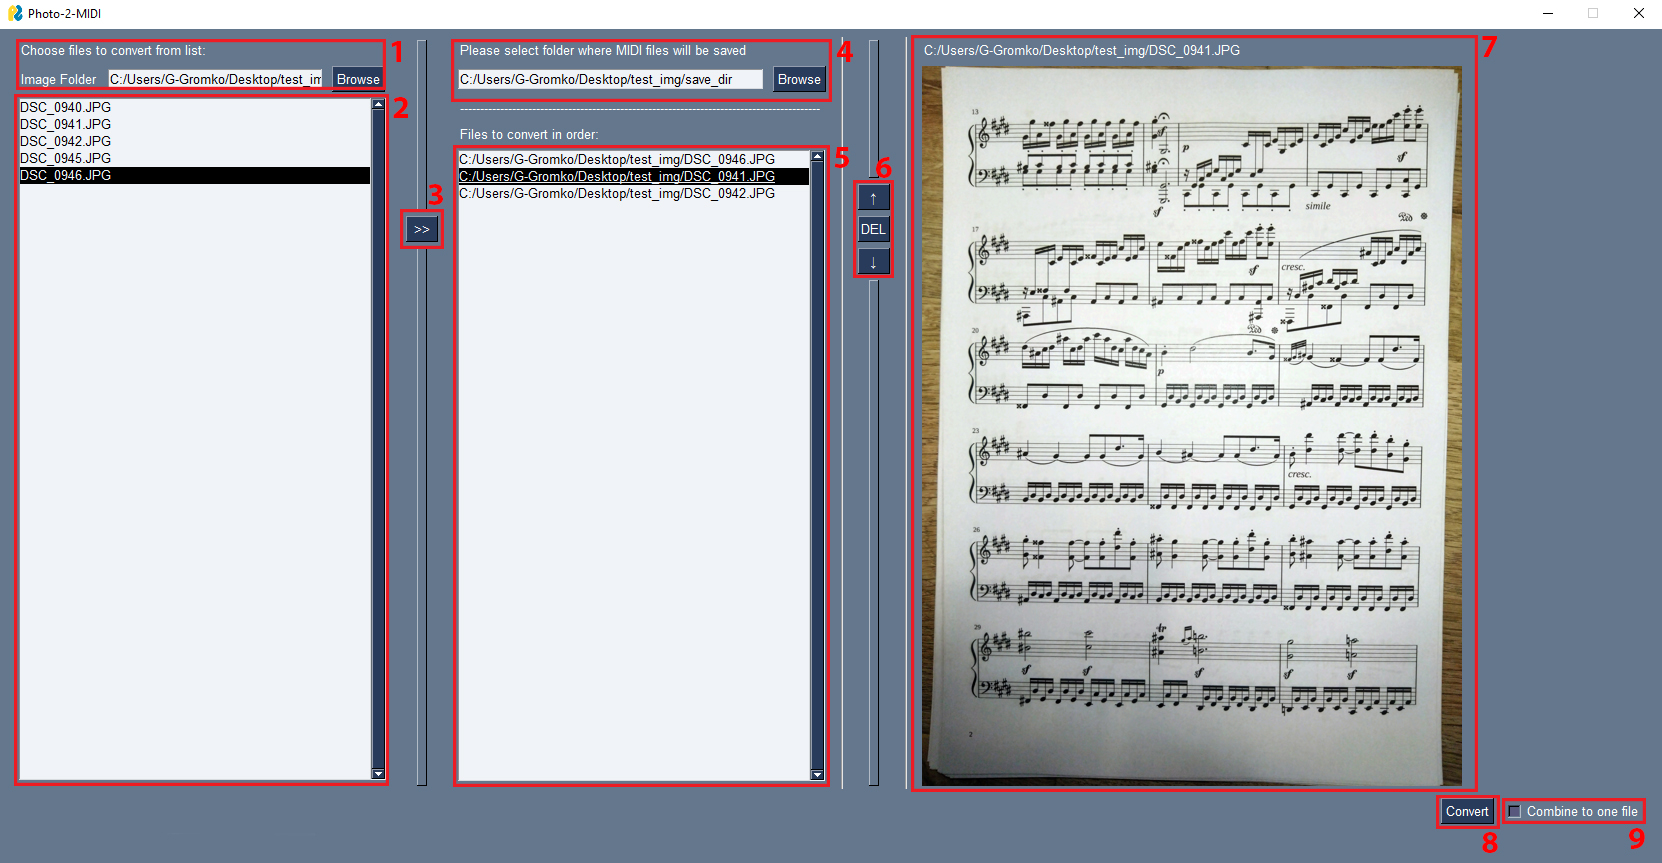
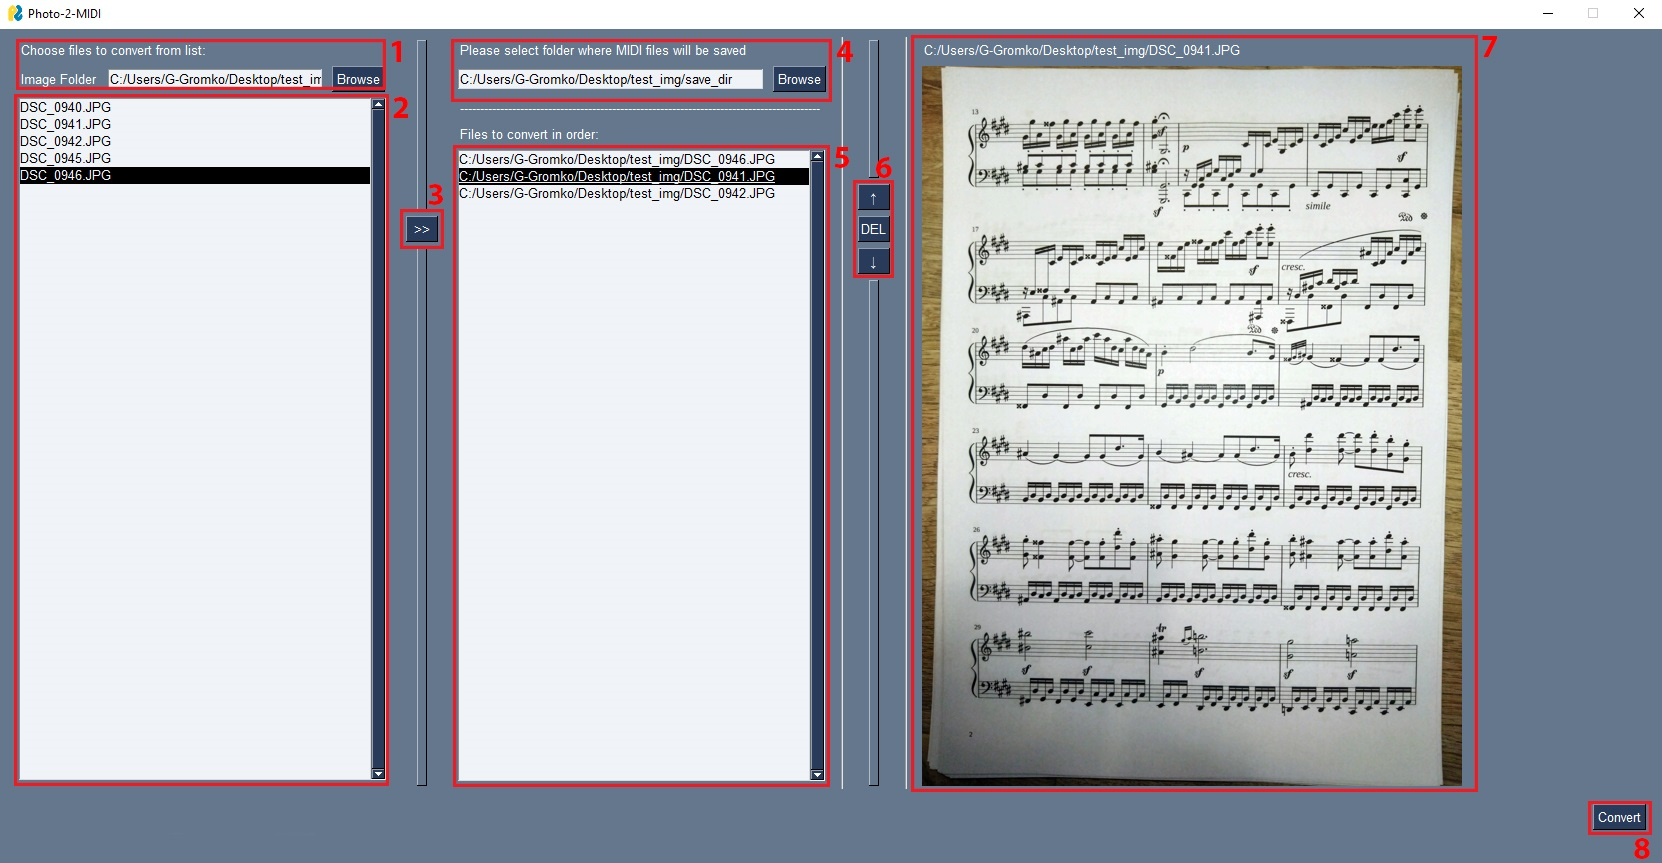
Dodano proces konwersji **kern --> MIDI, dodano zakończenie do tekstu pracy, oraz inne zmiany

diff --git a/paper/inzynierska.tex b/paper/inzynierska.tex
@@ -96,7 +96,7 @@ Jednakże pomimo tego dynamicznego rozwoju, modele te są ograniczone zazwyczaj 
 
 Większość dostępnej literatury skupia się problemie wydobywania danych już z odpowiednio przygotowanych obrazów, które mogą być w pewien sposób zniekształcone, jednak proces digitalizacji zapisów nutowych dzisiaj odbywa się zazwyczaj przy pomocy zdjęć zrobionych przy użyciu przenośnych urządzeń, takich jak telefon wyposażony w aparat, zamiast skanerów. Jak takie podejście jest wygodniejsze dla użytkownika, gdyż w dzisiejszych czasach większość osób ma już przy sobie przez prawie cały czas urządzenia wyposażone w aparat, to niestety wszystkie układy optyczne wprowadzają dystorsję do wykonywanego obrazu, beczkową dla obiektywów szerokokątnych, czy poduszkową dla teleobiektywów, co powoduje niechciane zniekształcenia w zapisywanym obrazie. Kolejną wadą fotografowania dokumentów jest to, iż w przeciwieństwie do skanów, uzyskany obraz nie jest płaski i wyrównany z ewentualnym lekkim przechyleniem, które jest proste do poprawienia, tylko często posiada zniekształcenia we wszystkich wymiarach, jak na przykład gdy fotografuje się stronę książki, co skutkuje nieliniowymi wygięciami przy krawędziach stron. Powoduje to zmniejszenie skuteczności systemów, wymagając dodatkowego stopnia wstępnego przetwarzania obrazu, polegającego na usuwaniu wypaczenia, zanim zostanie on przekazany do odzyskania informacji przez wyuczony model.
 
-Dlatego też celem niniejszej pracy jest zaprojektowanie i stworzenie programu, który pozwoli na odczytanie informacji zawartych w zapisie nutowym na fortepian ze zdjęć zrobionych przez użytkownika, by mógł je on wygodnie zdigitalizować do pliku MIDI. 
+Dlatego też celem niniejszej pracy jest zaprojektowanie i stworzenie programu, który pozwoli na odczytanie informacji zawartych w zapisie nutowym na fortepian ze zdjęć zrobionych przez użytkownika, by mógł je on wygodnie zdigitalizować do plików MIDI. 
 
 Zakres pracy obejmuje stworzenie programu w języku Python wykorzystujący model głębokiego ucznia end-to-end oparty na rekurencyjnych sieciach neuronowych opracowany przez Antonio Ríos-Vilę wytrenowany na zbiorze danych GrandStaff\cite{Rios-Vila2023}, proces usuwania wypaczenia stworzony przez Matta Zuckera, oraz algorytm odnajdywania pozycji pięciolinii opracowany przez Mariusza Szwocha \cite{Szwoch2005} oraz otwartoźródłowych bibliotek przyśpieszających tworzenie programu.
 
@@ -110,7 +110,30 @@ Praca składa się z pięciu rozdziałów. Rozdział 1 obejmuje określenie spec
 \input{chapters/chapter5}
 
 \summary
-Tu podsumowanie z realizacji założeń, możliwości dalszej pracy
+%Tu podsumowanie z realizacji założeń, możliwości dalszej pracy.
+
+Rezultatem wynikającym z prac nad omawianym projektem jest powstanie programu, wykorzystującego techniki uczenia głębokiego, do rozpoznawania zapisu nutowego na fortepian ze zdjęć zrobionych przez użytkownika oraz plików PDF zawierających zapis nutowy.
+
+Pomimo zastosowania jednego z najnowocześniejszych modeli do rozpoznawania zapisu nutowego, nie udało się uzyskać zadowalającej dokładności i jakości transkrypcji, co powoduje iż konwersja uzyskanych informacji semantycznych ze zdjęć do formatu MIDI jest często niemożliwa. Uzyskane dane w wielu przypadkach posiadają błędy wymagające ręcznych poprawek, które tylko osoby z wiedzą muzyczną oraz doświadczeniem z formatem **kern i jego narzędziami byłyby w stanie naprawić. Spowodowało to, iż niestety nie udało się zrealizować założenia wygodnego archiwizowania zapisu nutowego do formatu MIDI, jednakże opracowywanie dokładniejszych modeli głębokiego uczenia znajduje się poza zakresem tematycznym tej pracy.
+
+Podczas pracy nad projektem autor zdobył cenne doświadczenie w pracy nad programami wykorzystującymi modele uczenia głębokiego, które w ostatnich latach widziały znaczny wzrost popularności, co jest szczególnie ważne w aktualnie bardzo aktywnie zmieniającym się rynku programistycznym. Czas spędzony nad projektowaniem i implementacją programu pozwolił autorowi na praktyczne zrozumienie procesu tworzenia programów komputerowych oraz istotności fazy projektowania w opracowywaniu oprogramowania.
+
+Całość pracy prezentuje się autorowi jako wartościowe i pouczające doświadczenie.
+
+\vspace{5mm}
+
+\subsection*{Możliwe kierunki rozwoju programu}
+
+\begin{itemize}
+	\item Zastosowanie wydajniejszych algorytmów wykrywania pięciolinii.
+	\item Zaimplementowanie dokładniejszych sposobów usuwania wypaczenia stron.
+	\item Opracowanie lepszych modeli głębokiego uczenia do rozpoznawania drukowanego zapisu nutowego na fortepian.
+	\item Stworzenie prawdziwego modelu end-to-end rozpoznającego nuty z całej strony, bez wcześniejszej potrzeby segmentacji obrazu na pięciolinie.
+	\item Dodanie możliwości odczytywania nut monofonicznych i homofonicznych.
+	\item Rozbudowanie o odczytywanie ręcznego zapisu nutowego.
+\end{itemize}
+
+
 
 \bibliographystyle{plain}
 \bibliography{literatura}

diff --git a/paper/chapters/chapter5.tex b/paper/chapters/chapter5.tex
@@ -747,7 +747,7 @@ Składa się on z 53882 syntetycznie stworzonych obrazów pojedynczych linii zap
 
 Format **kern jest jednym z najczęściej wykorzystywanych formatów w komputerowej analizie muzyki. Składa się on z prostego słownika i prostej do odczytywania struktury pliku, która jest po prostu zapisem tekstowym będącym sekwencją linii, gdzie każda linia jest złożona z kolumn odseparowanych znakiem tabulacji. Każda z kolumn zawiera informacje takie jak kodowanie znaków zapisu nutowego jak klucze, nuty, pauzy etc. oraz instrukcje mówiące o rozpoczęciu czy zakończeniu pięciolinii. Jest to zasadniczo tekstowa reprezentacja zapisu nutowego, który został obrócony o 90\degree, którego podobieństwo jest pokazane na rysunku \ref{fig:kern-score}. Każda linia pliku **kern jest czytana od lewej do prawej, gdzie symbole są interpretowane w tym samym czasie, a następnie od góry do dołu.
 
-\begin{figure}
+\begin{figure}[htb]
 	\centering
 	\includegraphics[width=10cm]{images/kern-nuty.jpg}
 	\caption{Przykład fragmentu zapisu nutowego w formacie KERN (lewa) wyrównanego z wyrenderowanym zapisem nutowym (prawa) ze zbioru danych GrandStaff.}
@@ -758,7 +758,7 @@ Dzięki takiej reprezentacji możliwe jest traktowanie zapisu nutowego w sposób
 
 Dodatkowo w zbiorze GrandStaff wszystkie zapisy posiadają przetransponowane wersje, by możliwe było przygotowanie modelu do różnie wyglądających zapisów, gdyż w niektórych przypadkach transpozycje zmieniają wygląd i położenie ogonków i pałeczek nut, jak jest to widoczne na rysunku \ref{fig:score-transposition}.
 
-\begin{figure}[h]
+\begin{figure}[htb]
 	\centering
 	\includegraphics[width=14cm]{images/grandstaff-transpozycje.jpg}
 	\caption{Przykład transpozycji zapisu nutowego w zbiorze danych GrandStaff.}
@@ -767,7 +767,7 @@ Dodatkowo w zbiorze GrandStaff wszystkie zapisy posiadają przetransponowane wer
 
 Kolejną ważną cechą tego zbioru danych jest posiadanie przez niego zapisu nutowego w wersji nienaruszonej, oraz zdeformowanej, która stara się naśladować zniekształcenia mogące powstać podczas fotografowania czy skanowania, przedstawione na rysunku \ref{fig:GS-normal-distorted}. Pozwala to na przygotowanie trenowanego modelu do zadania które będzie wykonywał, pozwalając uzyskać mu większą precyzję w trakcie jego wykonywania.
 
-\begin{figure}[ht]
+\begin{figure}[htb]
 	\centering
 	\includegraphics[width=14cm]{images/normal-distorted-GS}
 	\caption{Przykład zapisu nutowego ze zbioru danych GrandStaff w wersji bez zniekształceń oraz zniekształconej wersji tego samego zapisu.}
@@ -778,11 +778,11 @@ Kolejną ważną cechą tego zbioru danych jest posiadanie przez niego zapisu nu
 
 Trenowanie odbywało się na platformie Vast.ai, na zdalnej instancji wyposażonej w układ NVidia GeForce RTX 3090 oraz 103 GB pamięci operacyjnej, przez 25 epok, z użyciem zniekształconych wersji zapisu nutowego zbioru danych GrandStaff. Łączny czas uczenia modelu wyniósł około 24 godzin.
 
-Podczas trenowania modelu wykorzystanie pamięci GPU wyniosło około 14 GB, oraz około 15 GB pamięci operacyjnej.
+Podczas trenowania modelu wykorzystanie pamięci układu GPU wyniosło około 14 GB, oraz około 15 GB pamięci operacyjnej.
 
 Otrzymany model posiada 20,8 miliona parametrów.
 
-W testach syntetycznych przeprowadzonych na podzbiorze zbioru danych GrandStaff osiągnął on wyniki:
+W testach syntetycznych przeprowadzonych na testowym podzbiorze zbioru danych GrandStaff osiągnął on wyniki:
 \begin{itemize}
 	\item SER (Sequence Error Rate) - 10,951\%
 	\item CER (Character Error Rate) - 9,178\%

diff --git a/code/photo-2-midi.py b/code/photo-2-midi.py
@@ -78,16 +78,16 @@ def main():
 
     window = sg.Window("Photo-2-MIDI", layout)
 
-    def disable_UI(enable):
-        window["-CONVERT-"].update(disabled=enable)
-        window["-MV UP-"].update(disabled=enable)
-        window["-REMOVE-"].update(disabled=enable)
-        window["-MV DOWN-"].update(disabled=enable)
-        window["-ADD-"].update(disabled=enable)
-        window["-SAVE FOLDER-"].update(disabled=enable)
-        window["-FOLDER-"].update(disabled=enable)
-        window["-FOLDER BR 1-"].update(disabled=enable)
-        window["-FOLDER BR 2-"].update(disabled=enable)
+    def disable_UI(disable):
+        window["-CONVERT-"].update(disabled=disable)
+        window["-MV UP-"].update(disabled=disable)
+        window["-REMOVE-"].update(disabled=disable)
+        window["-MV DOWN-"].update(disabled=disable)
+        window["-ADD-"].update(disabled=disable)
+        window["-SAVE FOLDER-"].update(disabled=disable)
+        window["-FOLDER-"].update(disabled=disable)
+        window["-FOLDER BR 1-"].update(disabled=disable)
+        window["-FOLDER BR 2-"].update(disabled=disable)
 
 
     def enable_conversion_buttons():
@@ -227,7 +227,9 @@ def main():
         elif event == "-CONVERT-":
             save_path = ""
             if values["-SAVE FOLDER-"] == "":
-                save_path = os.getcwd()
+                aux_pth = values["-FOLDER-"]
+                save_path = os.path.join(aux_pth, "converted")
+                os.makedirs(save_path, exist_ok=True)
             else:
                 save_path = values["-SAVE FOLDER-"]
                 if not os.path.isdir(save_path):
@@ -237,7 +239,7 @@ def main():
             print("Converting files to MIDI ")
             disable_UI(True)
             sg.popup_ok("This may take a while.\nPlease be patient.")
-            convert_files_to_MIDI(convert_files, False, save_path)
+            convert_files_to_MIDI(convert_files, save_path)
             disable_UI(False)
             sg.popup_ok(f"Your MIDI files were saved in:\n{save_path}")
 

diff --git a/code/convert_to_MIDI.py b/code/convert_to_MIDI.py
@@ -11,6 +11,7 @@ from setup import DEBUG_LEVEL
 import utils
 from pdf2image import convert_from_path
 from subprocess import call
+import glob
 
 
 '''
@@ -81,8 +82,27 @@ def get_kern(model, filepath):
 
     return [kerns_from_images, os.path.basename(filepath).split('.')[0]]
 
+
+def the_MIDI_conversion(save_path):
+    krn_path = os.path.join(save_path, "krn")
+    krn_files = []
+    mid_filenames = []
+
+    for path in glob.glob(krn_path):
+        krn_files.append(path)
+
+    for file in krn_files:
+        aux = os.path.basename(file).replace(".krn", ".mid")
+        mid_path = os.path.join(save_path, aux)
+        mid_filenames.append(mid_path)
+
+    i = 0
+    while i < len(krn_files):
+        call(['./hum2mid', f"{str(krn_files[i])}", '-o', f"{str(mid_filenames[i])}"])
+        i += 1
+
     
-def convert_files_to_MIDI(filepaths, one_file, save_path):
+def convert_files_to_MIDI(filepaths, save_path):
     kern_content = []
     filenames = []
     model = get_crnn_model(1, 15849)
@@ -104,7 +124,7 @@ def convert_files_to_MIDI(filepaths, one_file, save_path):
         while j < len(kern_content[i]):
             k = 0
             while k < len(kern_content[i][j]):
-                krn_filename = fname + f"_pt{k+1}.krn"
+                krn_filename = fname + f"_page-{j+1}_pt{k+1}.krn"
                 save_file_name = os.path.join(krn_savepath, krn_filename)
 
                 with open (save_file_name, 'w') as savefile:
@@ -112,3 +132,5 @@ def convert_files_to_MIDI(filepaths, one_file, save_path):
                 k += 1
             j += 1
         i += 1
+
+    the_MIDI_conversion(save_path)

diff --git a/paper/chapters/chapter1.tex b/paper/chapters/chapter1.tex
@@ -22,8 +22,6 @@ Nazwa programu to "Photo-2-MIDI". Przeznaczeniem oprogramowania jest umożliwien
 \section{Wymagania funkcjonalne}
 	\begin{enumerate}
 		\item Użytkownik może wprowadzić plik lub pliki zawierające drukowane pismo nutowe w standardowej zachodniej notacji nutowej w formatach PNG, JPG, PDF.
-		\item Użytkownik może wygenerować na podstawie wprowadzonych plików pojedynczy plik MIDI.
-		\item Użytkownik może wygenerować na podstawie wprowadzonych plików oddzielne pliki MIDI dla każdego pliku.
 	\end{enumerate}
 	
 	
@@ -31,4 +29,6 @@ Nazwa programu to "Photo-2-MIDI". Przeznaczeniem oprogramowania jest umożliwien
 Program wymaga do działania:
 	\begin{enumerate}
 		\item Języka Python w wersji 3.11
+		\item Systemu operacyjnego Linux
+		\item Około 2 GB wolnej pamięci operacyjnej
 	\end{enumerate}

diff --git a/paper/chapters/chapter3.tex b/paper/chapters/chapter3.tex
@@ -47,5 +47,4 @@ Interfejs został stworzony przy użyciu biblioteki \textit{PySimpleGUI}.
 	\item Przyciski do organizacji plików przeznaczonych do konwersji, kolejno: przesuń wybrany plik w górę na liście, usuń wybrany plik z listy, przesuń wybrany plik w dół na liście.
 	\item Podgląd wybranego pliku z jednej z list.
 	\item Przycisk uruchamiający konwersję zdjęć do plików MIDI.
-	\item Pole wyboru, przy pomocy którego użytkownik określa, czy chce uzyskać jeden plik MIDI ze wszystkich zdjęć.
 \end{enumerate}
